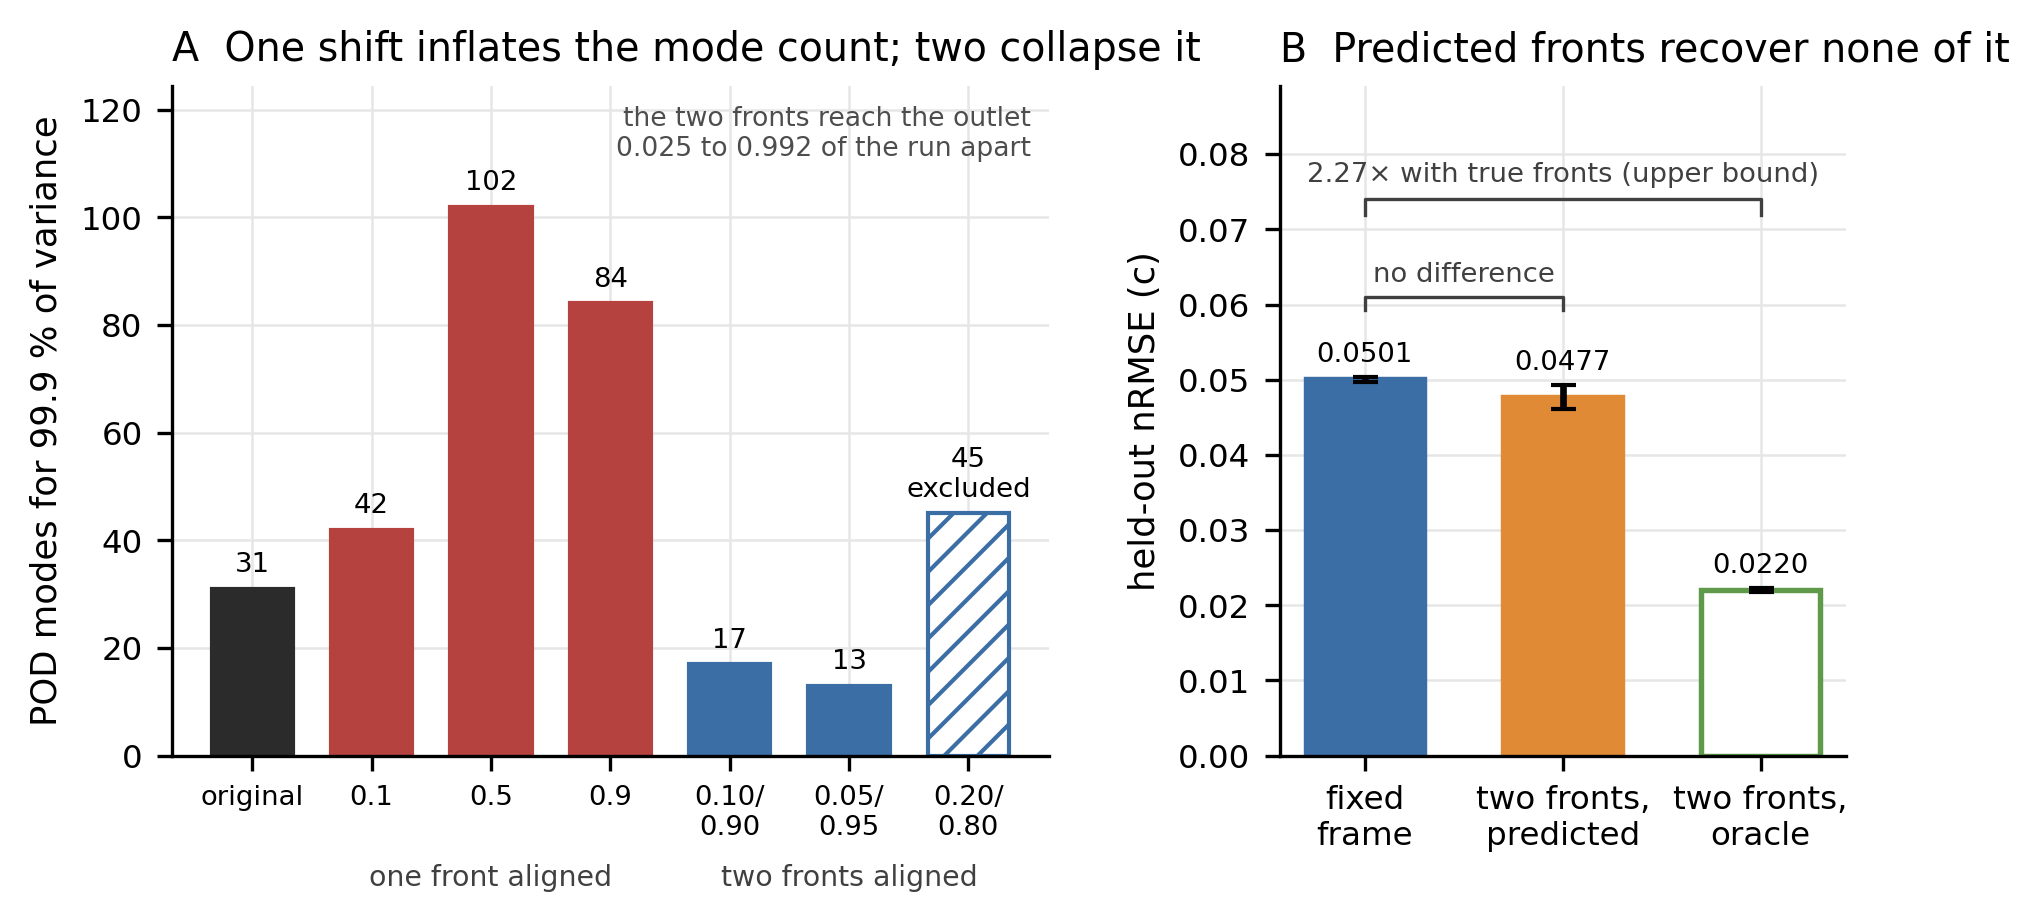
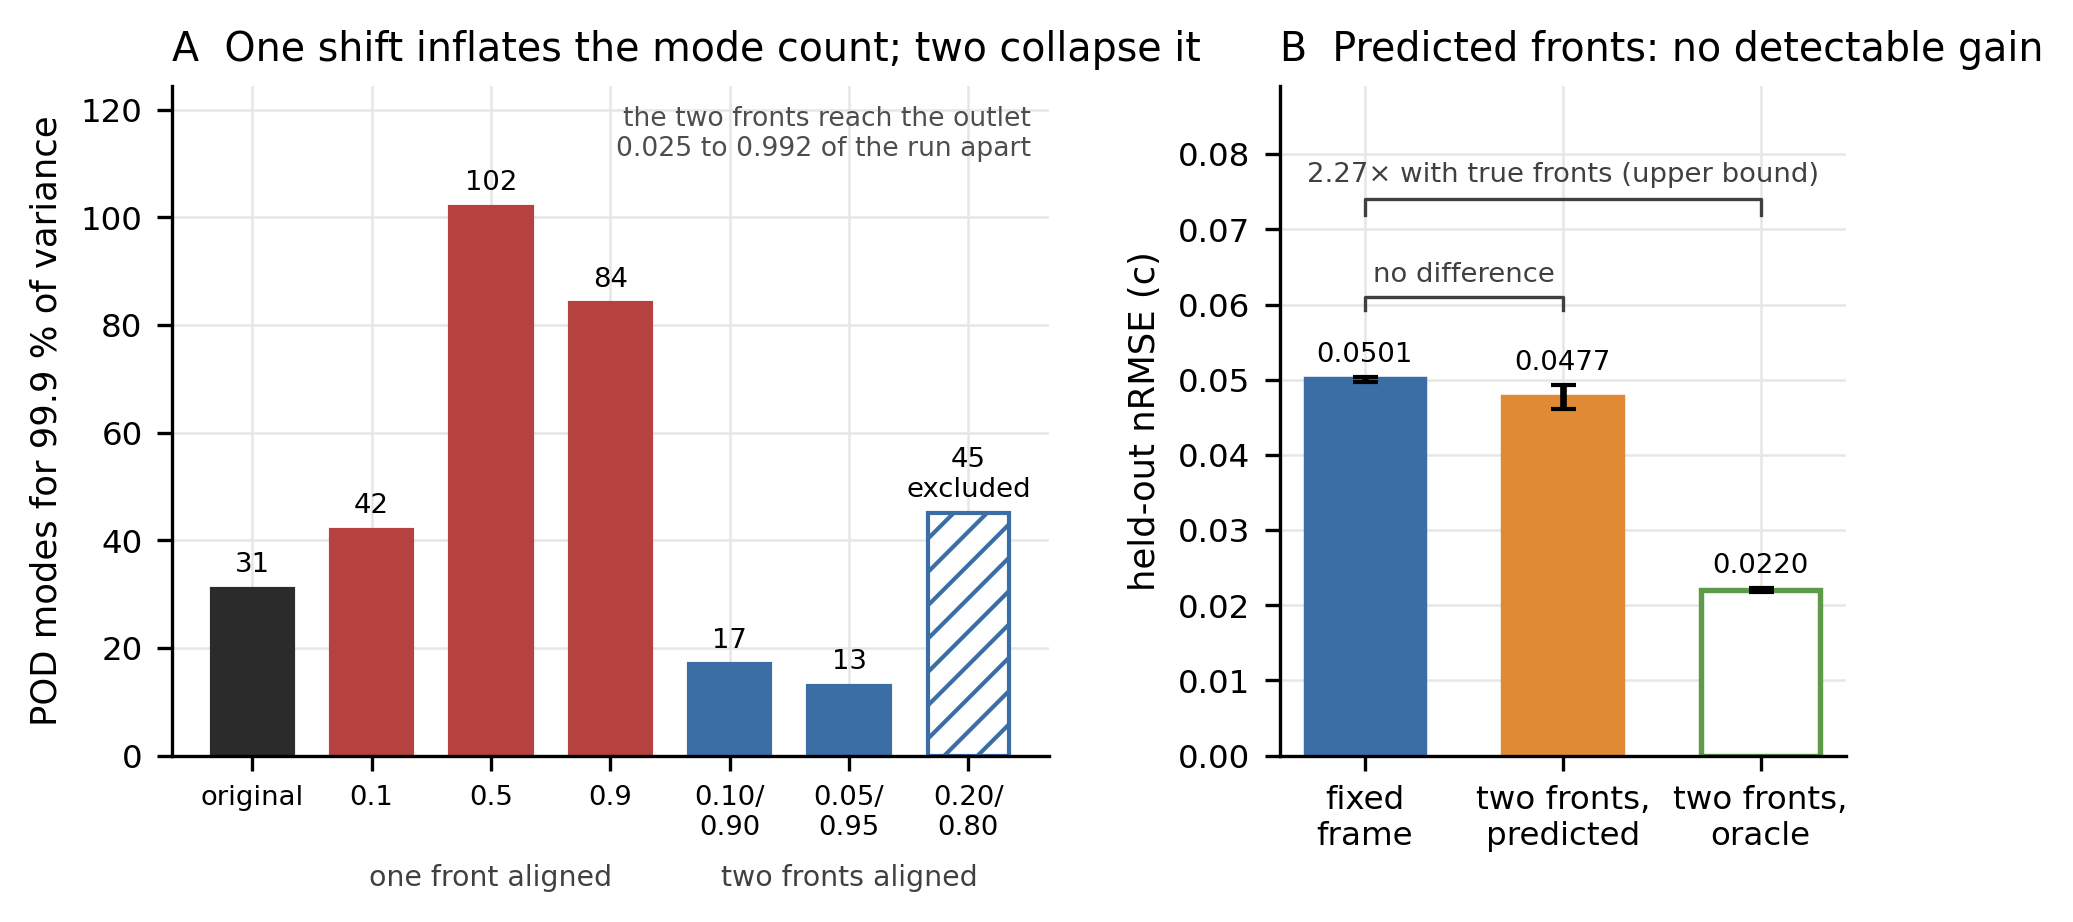
Figures: overlapping labels in the water-MOF figure separated (leader line); the two-front figure's panel title no longer overclaims ('no detectable gain'), its tick labels explained in the caption

diff --git a/fig_water_mofs.py b/fig_water_mofs.py
@@ -27,8 +27,8 @@ MARK = {"MOF-303": "o", "MOF-801": "s", "CAU-10-H": "D", "Al-fumarate": "^", "MI
         "Co2Cl2(BTDD)": "P"}
 # label offsets in points, chosen so labels do not cover points or bars
 OFFSET = {
-    ("RH_step", "MOF-303"): (6, 6), ("RH_step", "MOF-801"): (-4, -12), ("RH_step", "CAU-10-H"): (6, -10),
-    ("RH_step", "Al-fumarate"): (6, 5), ("RH_step", "MIL-160(Al)"): (-5, -14), ("RH_step", "Co2Cl2(BTDD)"): (6, -3),
+    ("RH_step", "MOF-303"): (6, 6), ("RH_step", "MOF-801"): (8, -14), ("RH_step", "CAU-10-H"): (6, -10),
+    ("RH_step", "Al-fumarate"): (6, 5), ("RH_step", "MIL-160(Al)"): (6, 34), ("RH_step", "Co2Cl2(BTDD)"): (6, -3),
     ("henry_fraction", "MOF-303"): (6, 4), ("henry_fraction", "MOF-801"): (6, 2),
     ("henry_fraction", "CAU-10-H"): (6, -3), ("henry_fraction", "Al-fumarate"): (6, -13),
     ("henry_fraction", "MIL-160(Al)"): (6, 3), ("henry_fraction", "Co2Cl2(BTDD)"): (6, 4),
@@ -60,6 +60,9 @@ def draw(ax, d, xk, yk, sx=1.0):
                     lw=0.9, color=col, zorder=3)
         ax.annotate(key.replace("Co2Cl2", "Co$_2$Cl$_2$"), (sx * mid(x), mid(y)), textcoords="offset points",
                     xytext=OFFSET.get((xk, key), (6, 4)), fontsize=6.6, color=col,
+                    # a label moved far from a crowded point gets a leader line
+                    arrowprops=(dict(arrowstyle="-", lw=0.5, color=col, shrinkA=1, shrinkB=3)
+                                if max(map(abs, OFFSET.get((xk, key), (6, 4)))) > 20 else None),
                     ha="right" if OFFSET.get((xk, key), (6, 4))[0] < 0 else "left")
 
 

diff --git a/paper/manuscript.tex b/paper/manuscript.tex
@@ -1416,7 +1416,9 @@ real and inactive; this paragraph has to hold both statements together.
 \includegraphics[width=\textwidth]{../figures/Fig6_warp.pdf}
 \caption{The two-front frame (legacy design). \textbf{A}~Modes needed for 99.9\,\% of
 training variance in each frame: aligning one front raises the count, aligning both
-lowers it. \textbf{B}~Held-out error: with predicted fronts the two-front frame is not
+lowers it. Tick labels give the level of \(c/c_{\mathrm{in}}\) at which each aligned
+front is located (one level, or a pair); the hatched pair was excluded by its
+interpolation guard. \textbf{B}~Held-out error: with predicted fronts the two-front frame is not
 distinguishable from the fixed frame (the interval runs from
 \nWarpPredImproveMax\,\% better to \nWarpPredDegradeMax\,\% worse, \nWarpNmat\
 materials); handed the true fronts (hollow) it is better, an upper bound rather than a

diff --git a/fig_warp.py b/fig_warp.py
@@ -77,7 +77,7 @@ def main():
         b.text(i, mean + sd + 0.0012, f"{mean:.4f}", ha="center", va="bottom", fontsize=6.6)
     b.set_xticks(range(3)); b.set_xticklabels([a_[0] for a_ in arms])
     b.set_ylabel("held-out nRMSE (c)")
-    b.set_title("B  Predicted fronts recover none of it")
+    b.set_title("B  Predicted fronts: no detectable gain")
     top = v["means"]["fixed"]
     bracket(b, 0, 1, top * 1.22, "no difference")
     headroom = v["means"]["fixed"] / v["means"]["two_wave_oracle"]
